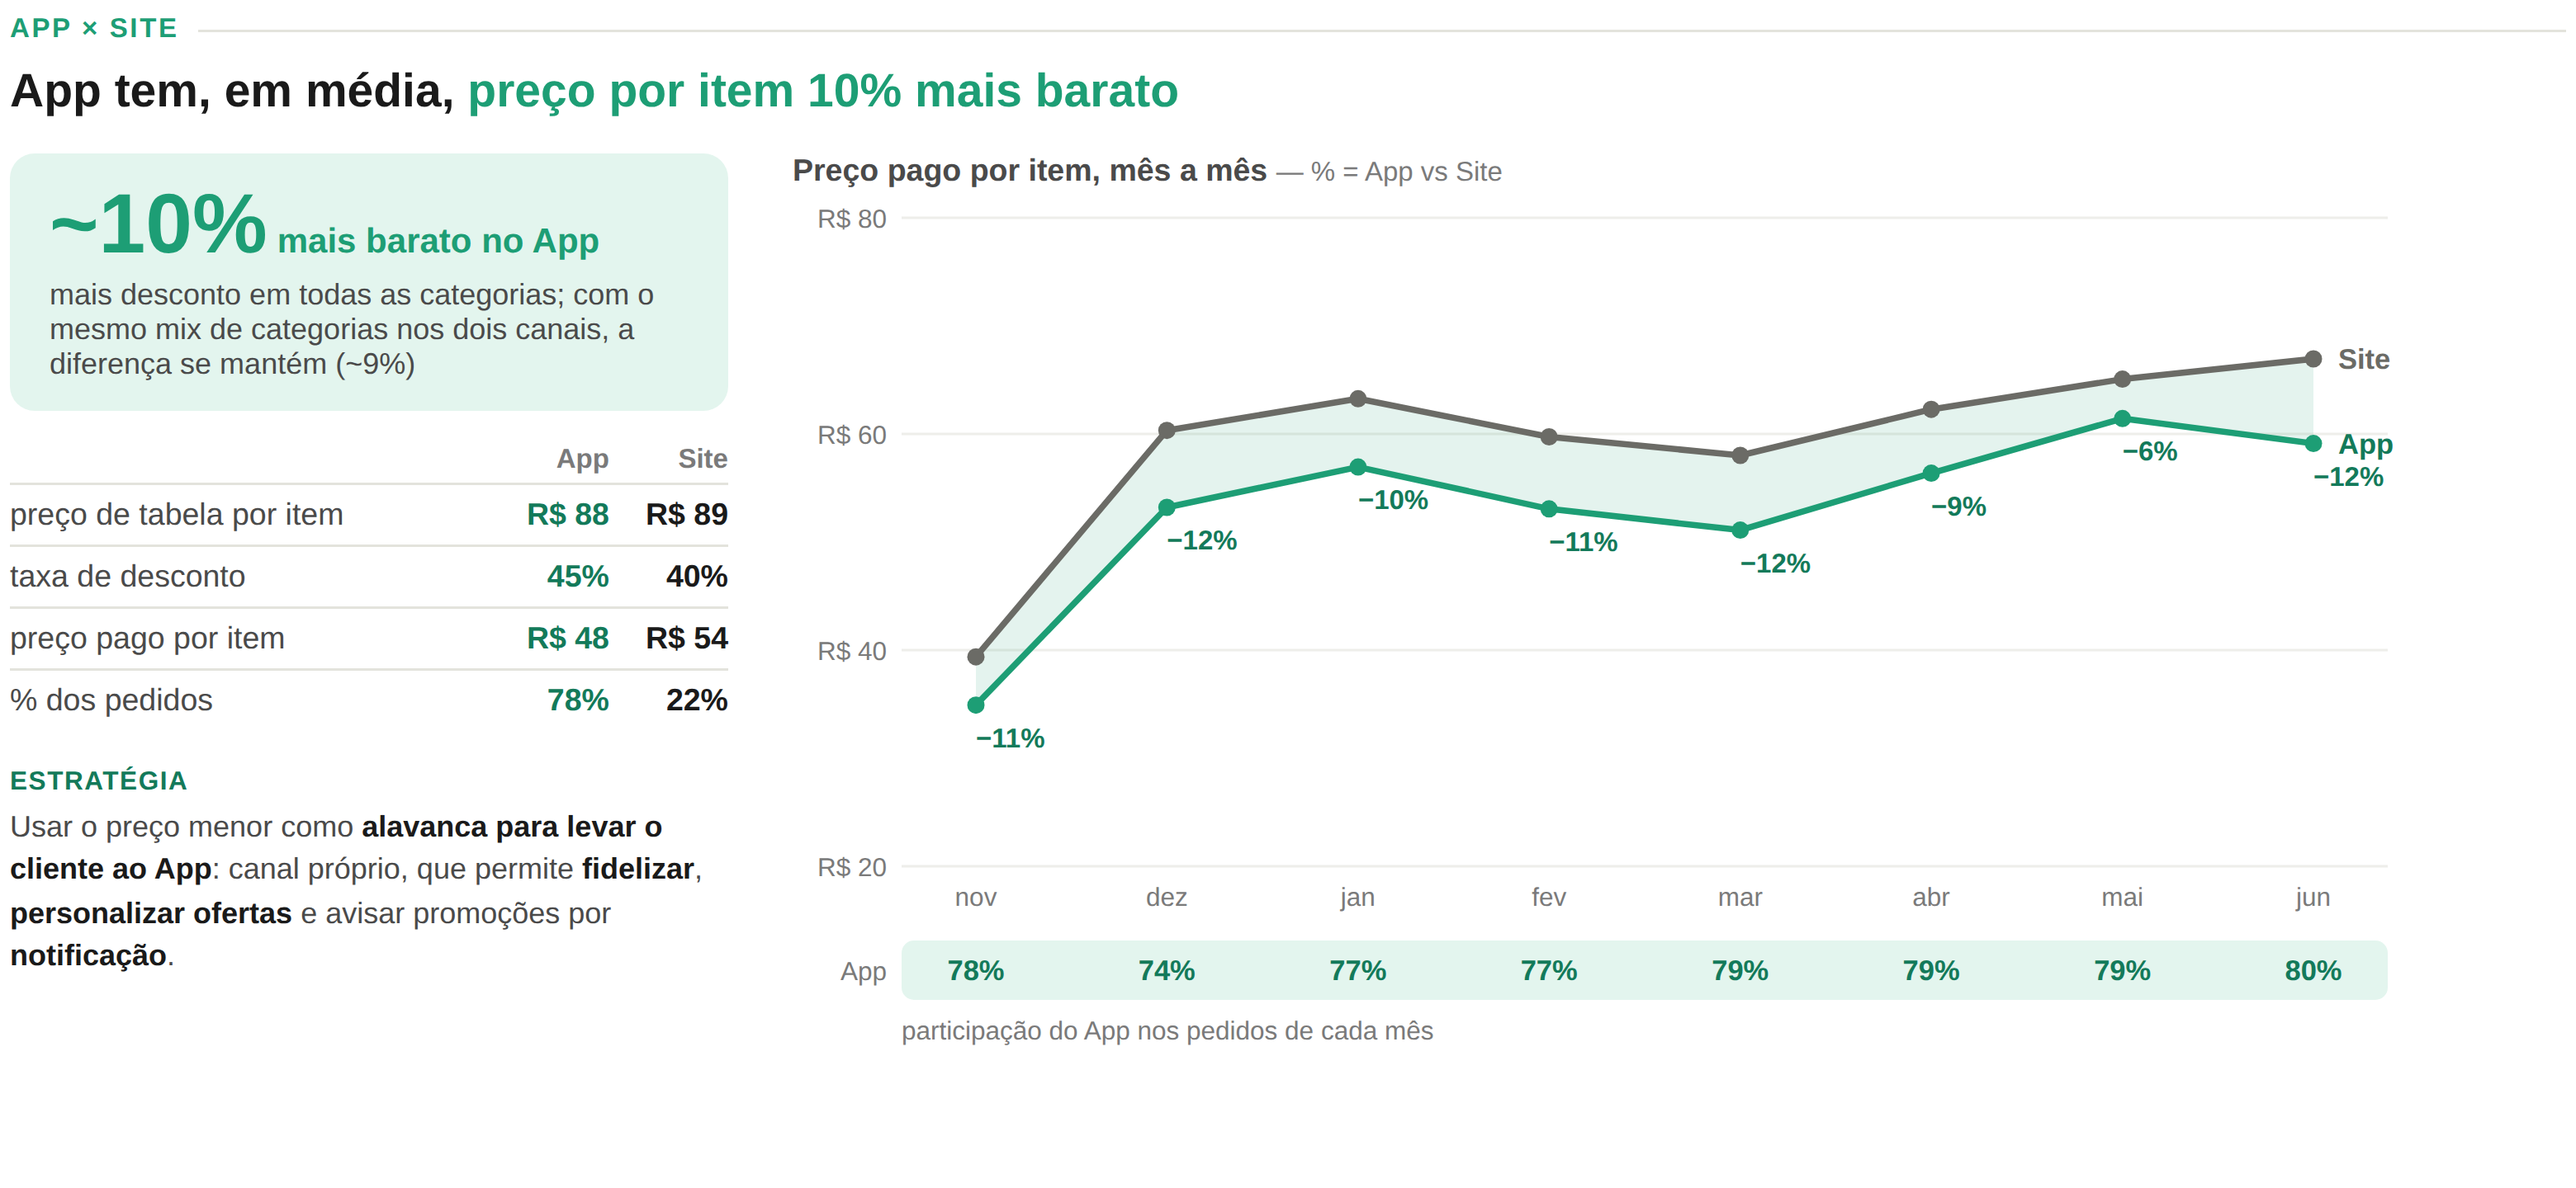
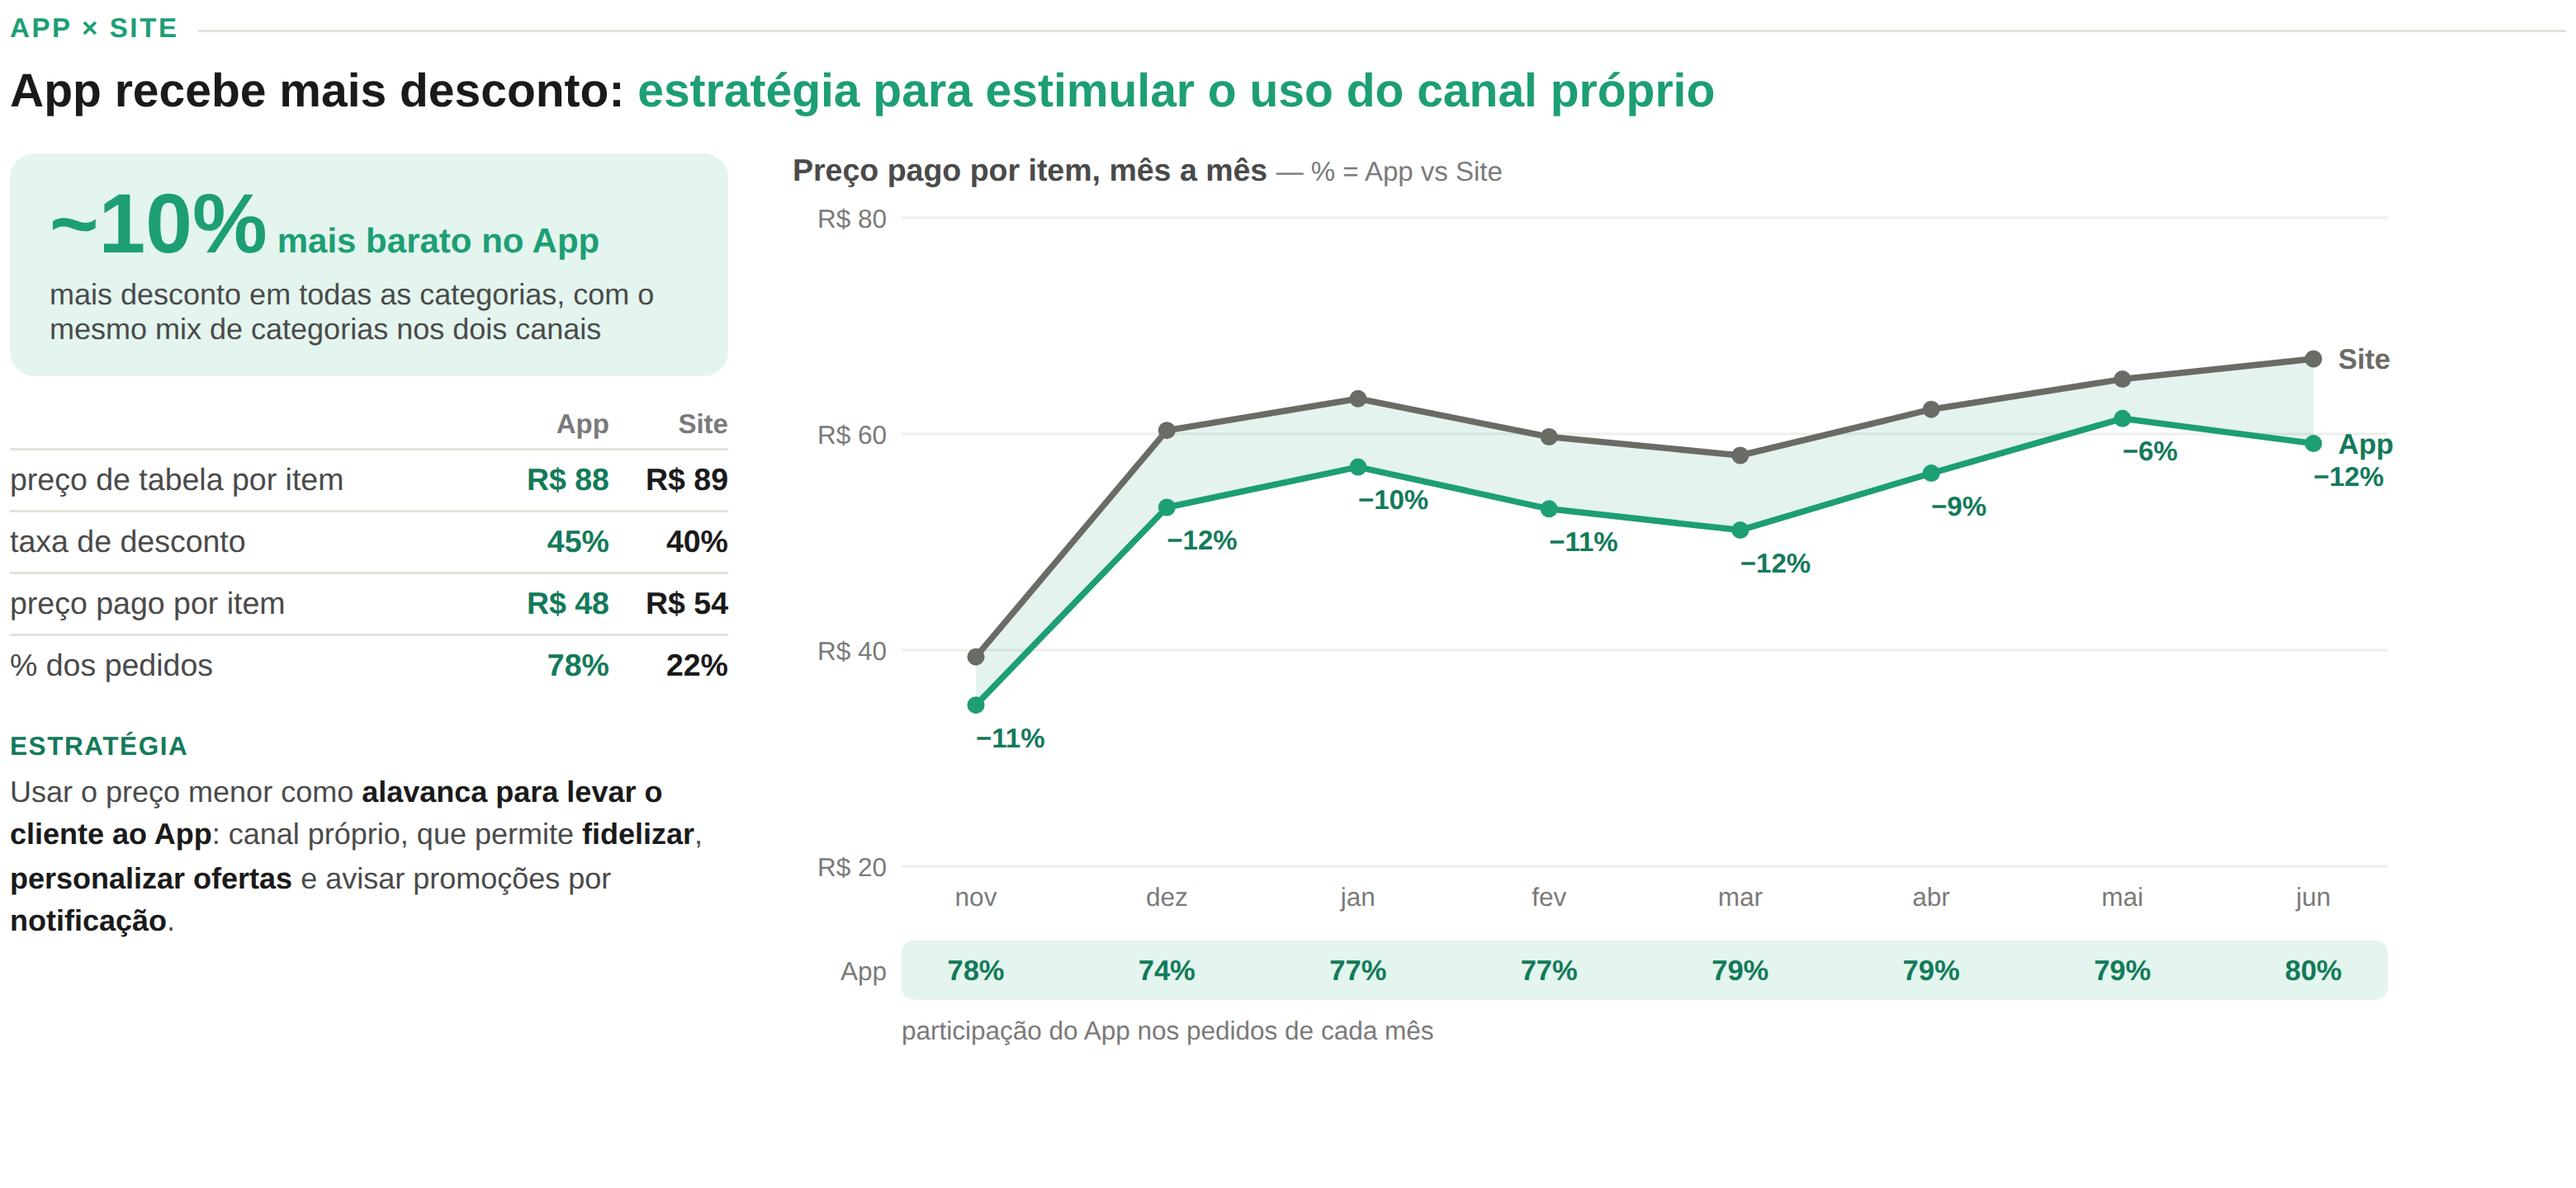
Widget App × Site: título sobre estratégia de desconto no App
Claude-Session: https://claude.ai/code/session_01NUJZKTcM8cs9QBTcUeuacF

Changed region(s): [[0.0, 0.2812, 0.2798, 0.8125], [0.0311, 0.0625, 0.684, 0.0938]]

diff --git a/apresentacao/geradores/05_app_site_modelo.html b/apresentacao/geradores/05_app_site_modelo.html
@@ -54,11 +54,11 @@
 <body>
 <div class="widget">
   <div class="rotulo">App × Site</div>
-  <h3>App tem, em média, <span>preço por item {{DESC_PCT}} mais barato</span></h3>
+  <h3>App recebe mais desconto: <span>estratégia para estimular o uso do canal próprio</span></h3>
   <div class="corpo">
     <div class="lado">
       <div class="kpi"><div class="grande">~{{DESC_PCT}}<small>mais barato no App</small></div>
-        <p>mais desconto em todas as categorias; com o mesmo mix de categorias nos dois canais, a diferença se mantém (~9%)</p></div>
+        <p>mais desconto em todas as categorias, com o mesmo mix de categorias nos dois canais</p></div>
       <table class="comp">
         <tr><th></th><th>App</th><th>Site</th></tr>
         <tr><td>preço de tabela por item</td><td class="app">{{TAB_APP}}</td><td class="site">{{TAB_SITE}}</td></tr>

diff --git a/apresentacao/widgets/05_app_site.html b/apresentacao/widgets/05_app_site.html
@@ -54,11 +54,11 @@
 <body>
 <div class="widget">
   <div class="rotulo">App × Site</div>
-  <h3>App tem, em média, <span>preço por item 10% mais barato</span></h3>
+  <h3>App recebe mais desconto: <span>estratégia para estimular o uso do canal próprio</span></h3>
   <div class="corpo">
     <div class="lado">
       <div class="kpi"><div class="grande">~10%<small>mais barato no App</small></div>
-        <p>mais desconto em todas as categorias; com o mesmo mix de categorias nos dois canais, a diferença se mantém (~9%)</p></div>
+        <p>mais desconto em todas as categorias, com o mesmo mix de categorias nos dois canais</p></div>
       <table class="comp">
         <tr><th></th><th>App</th><th>Site</th></tr>
         <tr><td>preço de tabela por item</td><td class="app">R$ 88</td><td class="site">R$ 89</td></tr>
